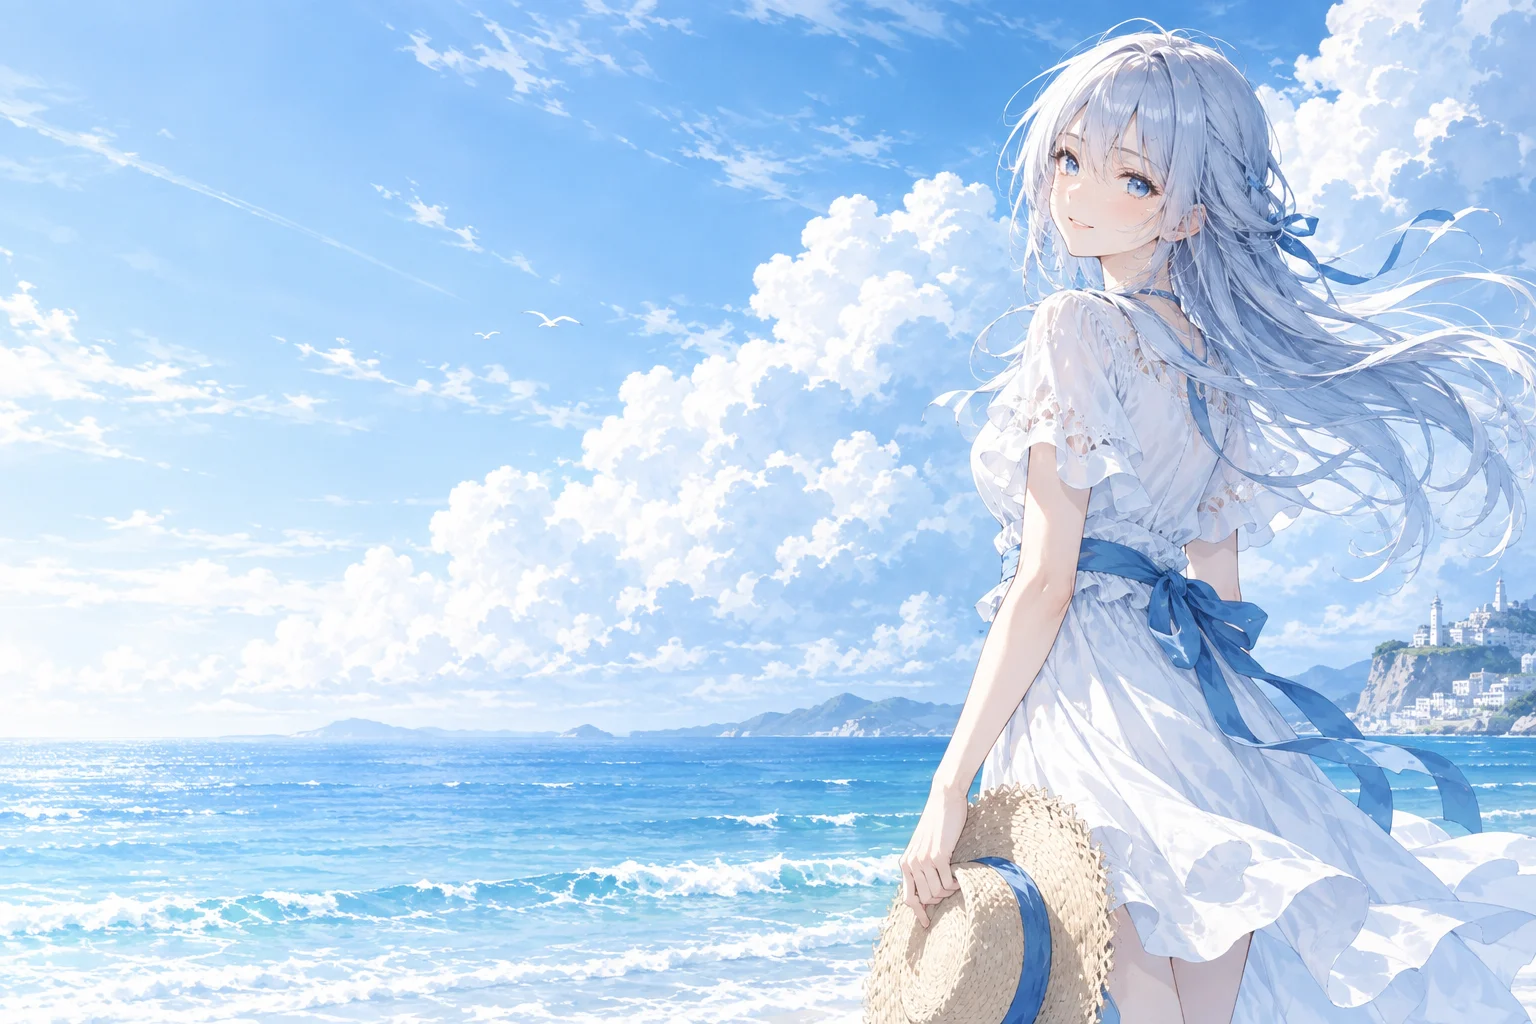
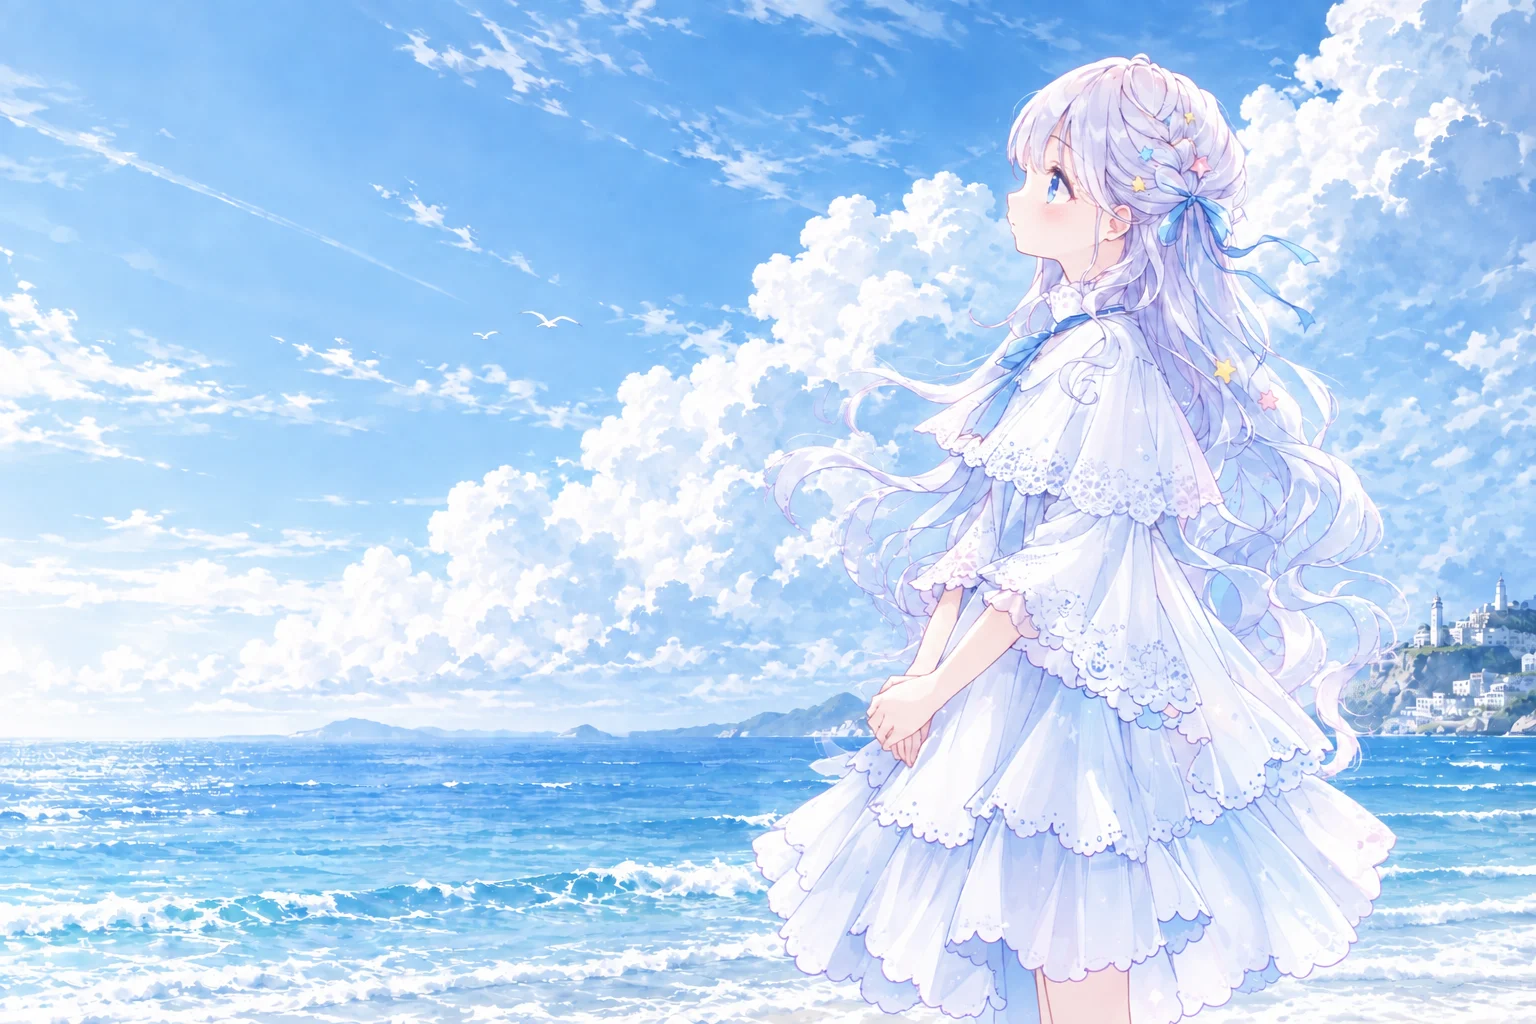
feat: complete article TOC and refresh hero character

diff --git a/src/App.tsx b/src/App.tsx
@@ -105,7 +105,7 @@ export default function App() {
 
     <main id="main">
       <section className="hero" id="home" aria-labelledby="hero-title">
-        <img className="hero-image" src={`${import.meta.env.BASE_URL}images/summer-sky.webp`} alt="蓝天与白云下，银蓝色长发的动漫少女站在海边，回头微笑" fetchPriority="high" width="1536" height="1024" />
+        <img className="hero-image" src={`${import.meta.env.BASE_URL}images/summer-sky.webp`} alt="蓝天白云与海浪前，戴星星发饰的银紫长发少女身穿白色蕾丝裙，面向左侧仰望晴空" fetchPriority="high" width="1536" height="1024" />
         <div className="hero-wash" />
         <div className="hero-inner page-width">
           <div className="hero-copy">
@@ -128,7 +128,7 @@ export default function App() {
       <section className="about-section section-space page-width" id="about" aria-labelledby="about-title">
         <div className="section-heading"><div><p className="eyebrow"><span /> A LITTLE ABOUT ME</p><h2 id="about-title">很高兴，在这里遇见你<span className="heading-dot">。</span></h2></div><span className="section-aside" lang="ja">はじめまして <span>✳</span></span></div>
         <div className="about-layout">
-          <aside className="profile-card"><div className="profile-decoration" aria-hidden="true">✧</div><div className="avatar"><img src={`${import.meta.env.BASE_URL}images/summer-sky.webp`} alt="Alicia 的动漫形象" width="112" height="112" loading="lazy" /></div><span className="profile-sticker">HELLO!</span><h3>{profile.fullName}</h3><a href={profile.github} target="_blank" rel="noreferrer">{profile.handle}</a><div className="profile-divider"/><p><Icon name="book"/>Student & lifelong learner</p><p><Icon name="cloud"/>在自己的时区里，慢慢生长</p><span className="profile-card-footer">MORE THAN A README <span>✦</span></span></aside>
+          <aside className="profile-card"><div className="profile-decoration" aria-hidden="true">✧</div><div className="avatar"><img src={`${import.meta.env.BASE_URL}images/summer-sky.webp`} alt="Alicia 的动漫头像：面向左侧，银紫长发与星星发饰" width="1536" height="1024" loading="lazy" /></div><span className="profile-sticker">HELLO!</span><h3>{profile.fullName}</h3><a href={profile.github} target="_blank" rel="noreferrer">{profile.handle}</a><div className="profile-divider"/><p><Icon name="book"/>Student & lifelong learner</p><p><Icon name="cloud"/>在自己的时区里，慢慢生长</p><span className="profile-card-footer">MORE THAN A README <span>✦</span></span></aside>
           <div className="about-copy"><span className="about-hello">Hi, I'm YangBo <span aria-hidden="true">✌</span></span><h3>一个喜欢追问「为什么」的人。</h3><p>{profile.description}</p><p>目前正在探索高性能数值计算、GPU 编程与机器学习系统。对我来说，学习的乐趣，就藏在「原来如此」的那一刻。</p><div className="skill-list" aria-label="技术兴趣">{profile.skills.map(skill => <span key={skill}>{skill}</span>)}</div><div className="about-quote"><Icon name="sparkles"/><p>把复杂的问题想明白，<br className="quote-break"/>把简单的日子过有趣。</p></div></div>
           <div className="now-card"><div className="now-card-top"><span className="status-dot"/>此刻的我<span>NOW</span></div><div className="now-item"><span className="now-icon"><Icon name="code" /></span><div><span>正在探索</span><p>GPU 的并行世界</p></div></div><div className="now-item"><span className="now-icon"><Icon name="book" /></span><div><span>持续学习</span><p>数值计算与 ML 系统</p></div></div><div className="now-card-bottom"><Icon name="cloud"/><p>前路漫漫，<br />每一步都算数。</p><span aria-hidden="true">✦</span></div></div>
         </div>

diff --git a/src/blog/blog.css b/src/blog/blog.css
@@ -81,21 +81,23 @@
 .reading-header .article-meta { margin-top: 24px; }
 .reading-header .article-tags { margin-top: 13px; }
 .reading-layout { display: grid; grid-template-columns: minmax(0, 760px) 215px; gap: 65px; align-items: start; }
-.article-toc { position: sticky; top: 112px; border-left: 1px solid var(--line); padding-left: 24px; }
+.article-toc { position: sticky; top: 112px; min-width: 0; border-left: 1px solid var(--line); padding-left: 24px; }
 .article-toc nav > p { display: flex; justify-content: space-between; align-items: center; gap: 10px; font-size: 12px; color: var(--heading); }
 .article-toc nav > p > span { font-size: 7px; letter-spacing: 1px; color: #a0b3c3; }
-.article-toc ol { list-style: none; padding: 0; margin: 18px 0 0; max-height: calc(100dvh - 300px); overflow-y: auto; }
-.article-toc li { margin-top: 13px; font-size: 11px; line-height: 1.8; color: var(--muted); }
+.article-toc ol { list-style: none; padding: 3px; margin: 15px -3px -3px; max-height: max(96px, calc(100dvh - 300px)); overflow-y: auto; overscroll-behavior: contain; }
+.article-toc li { margin-top: 5px; font-size: 11px; line-height: 1.8; color: var(--muted); }
+.article-toc li:first-child { margin-top: 0; }
 .article-toc .toc-subheading { padding-left: 13px; font-size: 10px; }
+.article-toc a { display: block; padding: 4px 8px; border-left: 2px solid transparent; border-radius: 0 4px 4px 0; overflow-wrap: anywhere; }
 .article-toc a:hover, .article-toc a.is-active { color: var(--blue-strong); }
-.article-toc a.is-active { font-weight: 500; }
+.article-toc a.is-active { font-weight: 500; border-left-color: var(--blue-strong); background: var(--light-blue); }
 .toc-note { display: flex; align-items: center; gap: 10px; padding-top: 22px; margin-top: 23px; border-top: 1px dashed var(--line); color: #8faac0; }
 .toc-note .icon { height: 26px; width: 26px; stroke-width: 1; }
 .toc-note > span { font-size: 10px; line-height: 1.9; }
 .article-body { min-width: 0; color: var(--ink); font-size: 15px; line-height: 2; overflow-wrap: anywhere; }
 .article-body > :first-child { margin-top: 0; }
 .article-body p { margin-block: 17px; }
-.article-body h2, .article-body h3, .article-body h4, .article-body h5, .article-body h6 { color: var(--heading); line-height: 1.65; font-weight: 500; scroll-margin-top: 106px; }
+.article-body h2, .article-body h3, .article-body h4, .article-body h5, .article-body h6 { color: var(--heading); line-height: 1.65; font-weight: 500; scroll-margin-top: 16px; }
 .article-body h2 { font-size: 25px; letter-spacing: .4px; padding-bottom: 12px; border-bottom: 1px solid var(--line); margin: 45px 0 19px; }
 .article-body h3 { font-size: 20px; margin: 29px 0 14px; }
 .article-body h4 { font-size: 17px; margin: 23px 0 12px; }
@@ -200,8 +202,8 @@
   .journal-doodle { display: none; }
   .reading-layout { display: flex; flex-direction: column; gap: 30px; }
   .article-toc { order: -1; position: static; width: 100%; border: 1px solid var(--line); padding: 17px 21px; border-radius: 8px; background: var(--section); }
-  .article-toc ol { display: flex; flex-wrap: wrap; gap: 8px 20px; max-height: none; margin-top: 12px; }
-  .article-toc li, .article-toc .toc-subheading { padding: 0; margin: 0; font-size: 10px; }
+  .article-toc ol { max-height: min(40dvh, 18rem); margin-top: 12px; }
+  .article-toc li { font-size: 11px; }
   .toc-note { display: none; }
   .reading-header h1 { font-size: 31px; }
   .reading-header { padding-top: 32px; margin-bottom: 25px; }

diff --git a/src/blog/useArticleReader.ts b/src/blog/useArticleReader.ts
@@ -8,18 +8,27 @@ function useActiveHeading(bodyRef: BodyRef, article: Article) {
   useEffect(() => {
     const root = bodyRef.current;
     if (!root) return;
-    const headings = article.headings.map(heading => document.getElementById(heading.id)).filter((node): node is HTMLElement => !!node && root.contains(node));
+    const ids = new Set(article.headings.map(heading => heading.id));
+    const headings = [...root.querySelectorAll<HTMLElement>('h2[id], h3[id]')].filter(node => ids.has(node.id));
+    setActive(headings[0]?.id ?? '');
+    if (!headings.length) return;
     let frame = 0;
     const update = () => {
-      cancelAnimationFrame(frame);
+      if (frame) return;
       frame = requestAnimationFrame(() => {
-        let current = headings[0]?.id ?? '';
+        frame = 0;
+        const visible = headings.filter(heading => heading.getClientRects().length > 0);
+        let current = visible[0]?.id ?? '';
         const padding = Number.parseFloat(getComputedStyle(document.documentElement).scrollPaddingTop) || 0;
-        const margin = headings[0] ? Number.parseFloat(getComputedStyle(headings[0]).scrollMarginTop) || 0 : 0;
-        const top = Math.max(116, window.innerHeight * .18, padding + margin + 1);
-        for (const heading of headings) {
+        const margin = visible[0] ? Number.parseFloat(getComputedStyle(visible[0]).scrollMarginTop) || 0 : 0;
+        const top = padding + margin + 1;
+        for (const heading of visible) {
           if (heading.getBoundingClientRect().top > top) break;
           current = heading.id;
+        }
+        // A short final section cannot always reach the top of the reading viewport.
+        if (window.scrollY > 0 && Math.ceil(window.scrollY + window.innerHeight) >= document.documentElement.scrollHeight) {
+          current = visible[visible.length - 1]?.id ?? '';
         }
         setActive(current);
       });
@@ -28,12 +37,14 @@ function useActiveHeading(bodyRef: BodyRef, article: Article) {
     observer.observe(root);
     window.addEventListener('scroll', update, { passive: true });
     window.addEventListener('resize', update);
+    window.addEventListener('hashchange', update);
     update();
     return () => {
       cancelAnimationFrame(frame);
       observer.disconnect();
       window.removeEventListener('scroll', update);
       window.removeEventListener('resize', update);
+      window.removeEventListener('hashchange', update);
     };
   }, [bodyRef, article]);
   return active;

diff --git a/src/blog/ArticleToc.tsx b/src/blog/ArticleToc.tsx
@@ -1,0 +1,36 @@
+import { useEffect, useRef } from 'react';
+import Icon from '../Icons';
+import type { Article } from './types';
+
+export default function ArticleToc({ headings, activeHeading }: { headings: Article['headings']; activeHeading: string }) {
+  const listRef = useRef<HTMLOListElement>(null);
+
+  useEffect(() => {
+    const list = listRef.current;
+    const active = list?.querySelector<HTMLElement>('[aria-current="location"]');
+    if (!list || !active || list.scrollHeight <= list.clientHeight) return;
+    const bounds = list.getBoundingClientRect();
+    const item = active.getBoundingClientRect();
+    // Scroll only the directory; scrollIntoView would also move the article viewport.
+    if (item.top < bounds.top) list.scrollTop += item.top - bounds.top;
+    else if (item.bottom > bounds.bottom) list.scrollTop += item.bottom - bounds.bottom;
+  }, [activeHeading, headings]);
+
+  if (!headings.length) return null;
+
+  return <aside className="article-toc">
+    <nav aria-label="本文目录">
+      <p>本文目录<span>CONTENTS</span></p>
+      <ol ref={listRef}>
+        {headings.map(heading => <li className={heading.level === 3 ? 'toc-subheading' : undefined} key={heading.id}>
+          <a href={`#${encodeURIComponent(heading.id)}`}
+            className={activeHeading === heading.id ? 'is-active' : undefined}
+            aria-current={activeHeading === heading.id ? 'location' : undefined}>
+            {heading.text}
+          </a>
+        </li>)}
+      </ol>
+    </nav>
+    <div className="toc-note"><Icon name="cloud"/><span>读一点，想一点。<br/>让好奇心继续生长。</span></div>
+  </aside>;
+}

diff --git a/src/blog/ArticleReader.tsx b/src/blog/ArticleReader.tsx
@@ -6,6 +6,7 @@ import { articleSectionById } from '../../scripts/sections.mjs';
 import { ArticleMeta, ArticleTags } from './ArticleMeta';
 import { articleUrl } from './urls';
 import { useArticleReader } from './useArticleReader';
+import ArticleToc from './ArticleToc';
 
 export default function ArticleReader({ article }: { article: Article }) {
   const bodyRef = useRef<HTMLElement>(null);
@@ -29,7 +30,7 @@ export default function ArticleReader({ article }: { article: Article }) {
     </header>
     <div className="reading-layout">
       <article ref={bodyRef} className="article-body" aria-label="文章正文" dangerouslySetInnerHTML={markup} />
-      {article.headings.length > 0 && <aside className="article-toc"><nav aria-label="本文目录"><p>本文目录<span>CONTENTS</span></p><ol>{article.headings.map(heading => <li className={heading.level === 3 ? 'toc-subheading' : ''} key={heading.id}><a href={`#${encodeURIComponent(heading.id)}`} className={activeHeading === heading.id ? 'is-active' : undefined} aria-current={activeHeading === heading.id ? 'location' : undefined}>{heading.text}</a></li>)}</ol></nav><div className="toc-note"><Icon name="cloud"/><span>读一点，想一点。<br/>让好奇心继续生长。</span></div></aside>}
+      <ArticleToc headings={article.headings} activeHeading={activeHeading}/>
     </div>
     {(older || newer) && <nav className="article-pager" aria-label={`${section.label}中的相邻手记`}>
       {older ? <a href={articleUrl(older.slug)}><span>更早一篇</span><strong>{older.title}</strong></a> : <span />}

diff --git a/src/styles.css b/src/styles.css
@@ -121,7 +121,8 @@ h2 { color: var(--heading); font-size: 27px; font-weight: 500; letter-spacing: 1
 .profile-card { position: relative; overflow: hidden; border: 1px solid #e0ecf6; border-radius: 13px; padding: 28px 25px 18px; background: linear-gradient(135deg, #f1f8ff, #fafdff 50%, #f0f7fd); text-align: center; }
 .profile-decoration { position: absolute; left: 18px; top: 15px; color: #9abfdf; font-size: 30px; }
 .avatar { border-radius: 50%; width: 88px; height: 88px; margin: 0 auto 14px; overflow: hidden; border: 4px solid white; box-shadow: 0 4px 15px #5083b018; background: #d7eafa; }
-.avatar img { width: 380%; height: auto; max-width: none; transform: translate(-60%, -1%); }
+/* Crop the shared 1536 × 1024 hero to x: 928–1312, y: 20–404, keeping the face and ribbon visible. */
+.avatar img { display: block; width: 400%; height: auto; max-width: none; transform: translate(-60.4167%, -1.953125%); }
 .profile-sticker { position: absolute; top: 98px; right: 29px; color: #5784aa; background: white; font-size: 8px; font-weight: 600; letter-spacing: 1px; padding: 4px 8px; border: 1px solid #dbeaf6; border-radius: 4px; transform: rotate(-9deg); }
 .profile-card h3 { color: var(--heading); font-size: 20px; font-weight: 500; letter-spacing: -.3px; }
 .profile-card > a { display: inline-block; font-size: 10px; color: #7d9ab3; margin-top: 6px; }

diff --git a/ASSETS.md b/ASSETS.md
@@ -1,12 +1,46 @@
 # 首页插画
 
+- 使用方式：内置 ImageGen 图像编辑，未使用 CLI/API 生成。工具未提供模型版本选择或核验，因此不标注为特定型号。
+- 项目素材：`public/images/summer-sky.webp`，1536 × 1024，约 197 KiB。由生成的 PNG 使用 `cwebp -q 86` 转换为 WebP。
+- 背景参考：原有主图中的蓝天、白云、海浪与海岸。人物参考：用户提供的 `GYAY8dyb0AEfa-w.jpeg`。
+- 先按参考图替换人物，再单独水平镜像人物，使其面向左侧；背景保持原方向，人物位于画面右侧，左侧留给页面文字。
+- 首页及个人头像共享同一 WebP。头像以原图约 `x: 928–1312, y: 20–404` 的正方形区域裁切，保留面部、发饰与蓝色蝴蝶结；CSS 使用相对尺寸，随桌面及手机头像大小等比缩放。
+- 生成图片只包含画面，标题、按钮和文字均为可访问的 HTML。
+
+## 人物替换提示词
+
+```text
+Use case: compositing
+Asset type: replacement hero illustration for an existing personal website, 1536 × 1024 landscape, same 3:2 canvas as image 1.
+Input images: Image 1 is the EDIT TARGET and authoritative background/composition reference: the existing blue seaside website hero. Image 2 is the CHARACTER REFERENCE: use this exact illustrated character design, hairstyle, accessories, face, clothing and delicate drawing style.
+Primary request: Edit image 1 by replacing its woman with the character from image 2. Preserve the existing seaside background as closely as possible: the open blue sky, distinctive towering white cumulus cloud formations, birds, low distant mountain horizon, luminous turquoise ocean and white surf, and the small white coastal buildings on the far-right cliff. Keep scenery outside the replaced character's silhouette unchanged wherever possible. Do not replace the background with the white background of image 2.
+Subject: Faithfully recreate the character in image 2: long silver-white and very pale lavender wavy hair, braided half-up hairstyle, large blue ribbon at the back, pastel yellow/pink/cyan star-shaped hair ornaments, blue-violet eye, softly upward-looking right-facing profile, delicate pastel pink and cool blue linework. White and pale icy-blue tiered dress with scalloped lace edges, lace shoulder capelet and cuffs, and blue ribbon accents. Preserve the reference character's gentle expression and recognizable silhouette. Hands held naturally together in front, as in the reference. Remove the old character and straw hat entirely.
+Composition: Match image 1's website layout. One character only, occupying the right third to right 45% of the image. Full head visible near x=75%, y=20%, with clear sky above the hair; frame from head to around mid-thigh. Keep her face recognizable and unobstructed, and keep enough space to the right of her gaze. Flowing long curls and dress remain in the right half. The left half stays open sky and sea for live HTML headings; no character, prominent stars, or new foreground objects in that text area.
+Lighting/style: Integrate the reference character naturally into the existing bright seaside daylight, retaining the reference's luminous pastel anime illustration and fine linework. Soft blue and lavender shading, natural scale and perspective, refined crisp detail. Retain colored star hair clips, without scattering extra decorative stars across the sky.
+Constraints: Replace only the character while preserving the background, horizon, overall color balance and 3:2 composition. Fully clothed character, natural anatomy and hands. No typography, UI, logos, watermark, border, collage, white cutout outline, or second character.
+```
+
+## 人物朝左的编辑提示词
+
+```text
+Use case: precise-object-edit
+Edit the provided generated seaside hero illustration. Make exactly one targeted change: HORIZONTALLY MIRROR ONLY THE CHARACTER, including her entire hairstyle, star hair clips, blue ribbons, lace clothing, arms and hands, so that her profile faces LEFT, toward the open sky and the website's text area.
+Keep the mirrored character in the same right-hand portion of the composition, at the same scale and vertical position. Mirror the figure around the vertical centerline of her own bounding box, not around the center of the canvas. Her nose and gaze must clearly point left. Preserve her exact recognizable face, silver-lavender curls, braid, star accessories, white/icy-blue lace dress, fine pastel linework, colors, expression and pose, with only the left/right reflection changed.
+CRITICAL INVARIANTS: Do not mirror or alter the background or the entire canvas. Keep the original blue sky, cloud formations, birds, mountains, ocean, waves, horizon, and far-right coastal buildings in their original positions. Keep the left half free of the character so the website text has room. Naturally restore background only in areas uncovered by mirroring the figure.
+Same 1536 × 1024 landscape canvas. One character only. No other changes, no new objects, no text, logo, border, or watermark.
+```
+
+## 原版插画记录
+
+文章示例中的 `articles/assets/summer-sky.webp` 保留原版插画。以下为原版生成记录。
+
 - 使用方式：内置 ImageGen 工具，单张原创生成，未使用 CLI。
 - 项目素材：`public/images/summer-sky.webp`。
 - 原图：1536 × 1024 PNG；使用 `cwebp -q 86` 转换为 WebP，供首页及头像使用。
 - 风格：蓝白色调、夏日海边、银蓝色头发的原创成年动漫角色。
 - 生成图片只包含画面，标题、按钮和文字均为可访问的 HTML。
 
-## 完整生成提示词
+### 原版完整生成提示词
 
 ```text
 Use case: stylized-concept

diff --git a/articles/README.md b/articles/README.md
@@ -67,6 +67,14 @@ tags: [随记]
 
 也接受包含 `html/head/body` 的完整文件，但网页标题、导航和主题由站点统一提供；HTML 的 `head`、脚本、样式、事件属性和 iframe 不会执行或显示。标题、段落、图片、表格、代码、`details` 等使用与 Markdown 相同的蓝白主题。不要使用内嵌 CSS/JS 构建另一套页面。
 
+## 文章目录
+
+正文中的 `##` / `###`（HTML 的 `h2` / `h3`）会自动生成目录，三级标题缩进显示；`h4` 至 `h6`、空标题与代码示例不进入目录。没有二、三级标题时不显示目录。
+
+桌面端目录固定在正文右侧，随阅读高亮当前章节；目录过长时可独立滚动，并自动跟随当前项。窄屏上目录放在正文上方，保留层级和高度限制。
+
+点击目录会平滑跳转，并将锚点写入地址栏；复制链接、刷新以及浏览器前进/后退均可定位到章节。系统开启减少动态效果时使用即时跳转。中文标题可直接使用，重复标题的锚点自动加序号；HTML 自定义 `id` 会保留，遇到重复或与正文其他锚点冲突时加序号。
+
 ## 图片、附件与互链
 
 - 图片放在 `articles/assets/`，或文章附近的其他目录，通过相对路径引用。它们会随 Vite 构建打包，不依赖外部图床。
